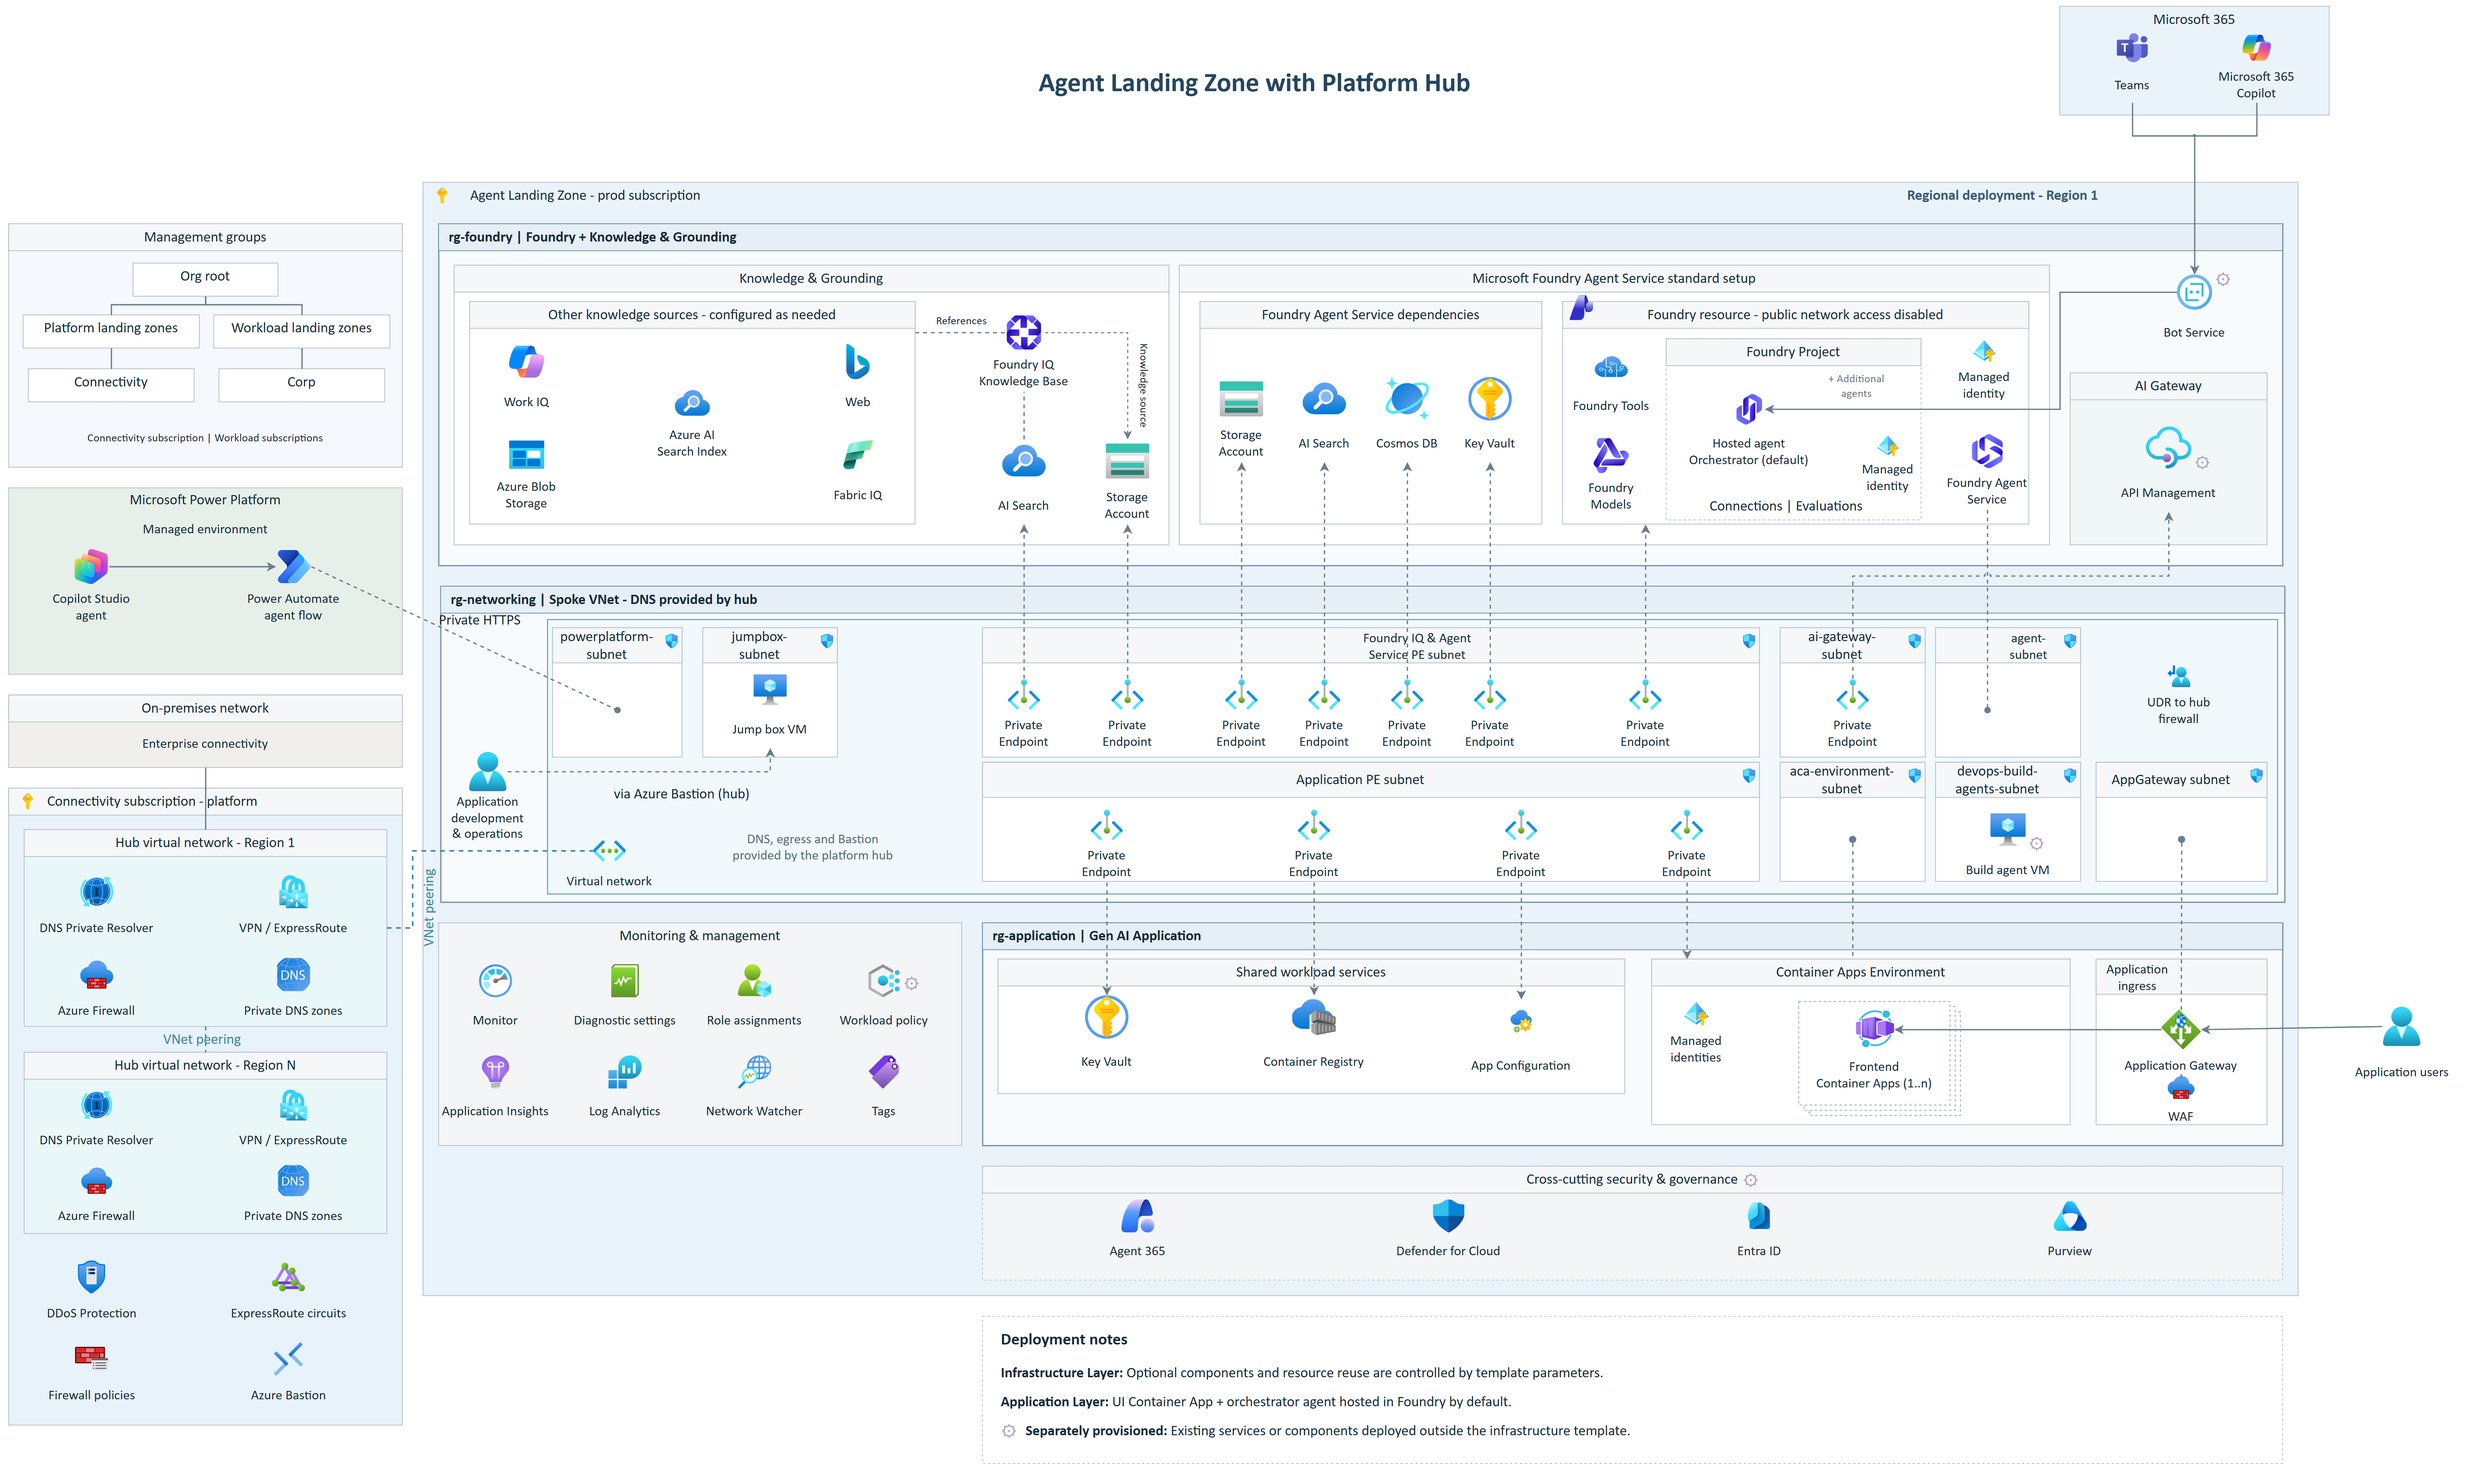
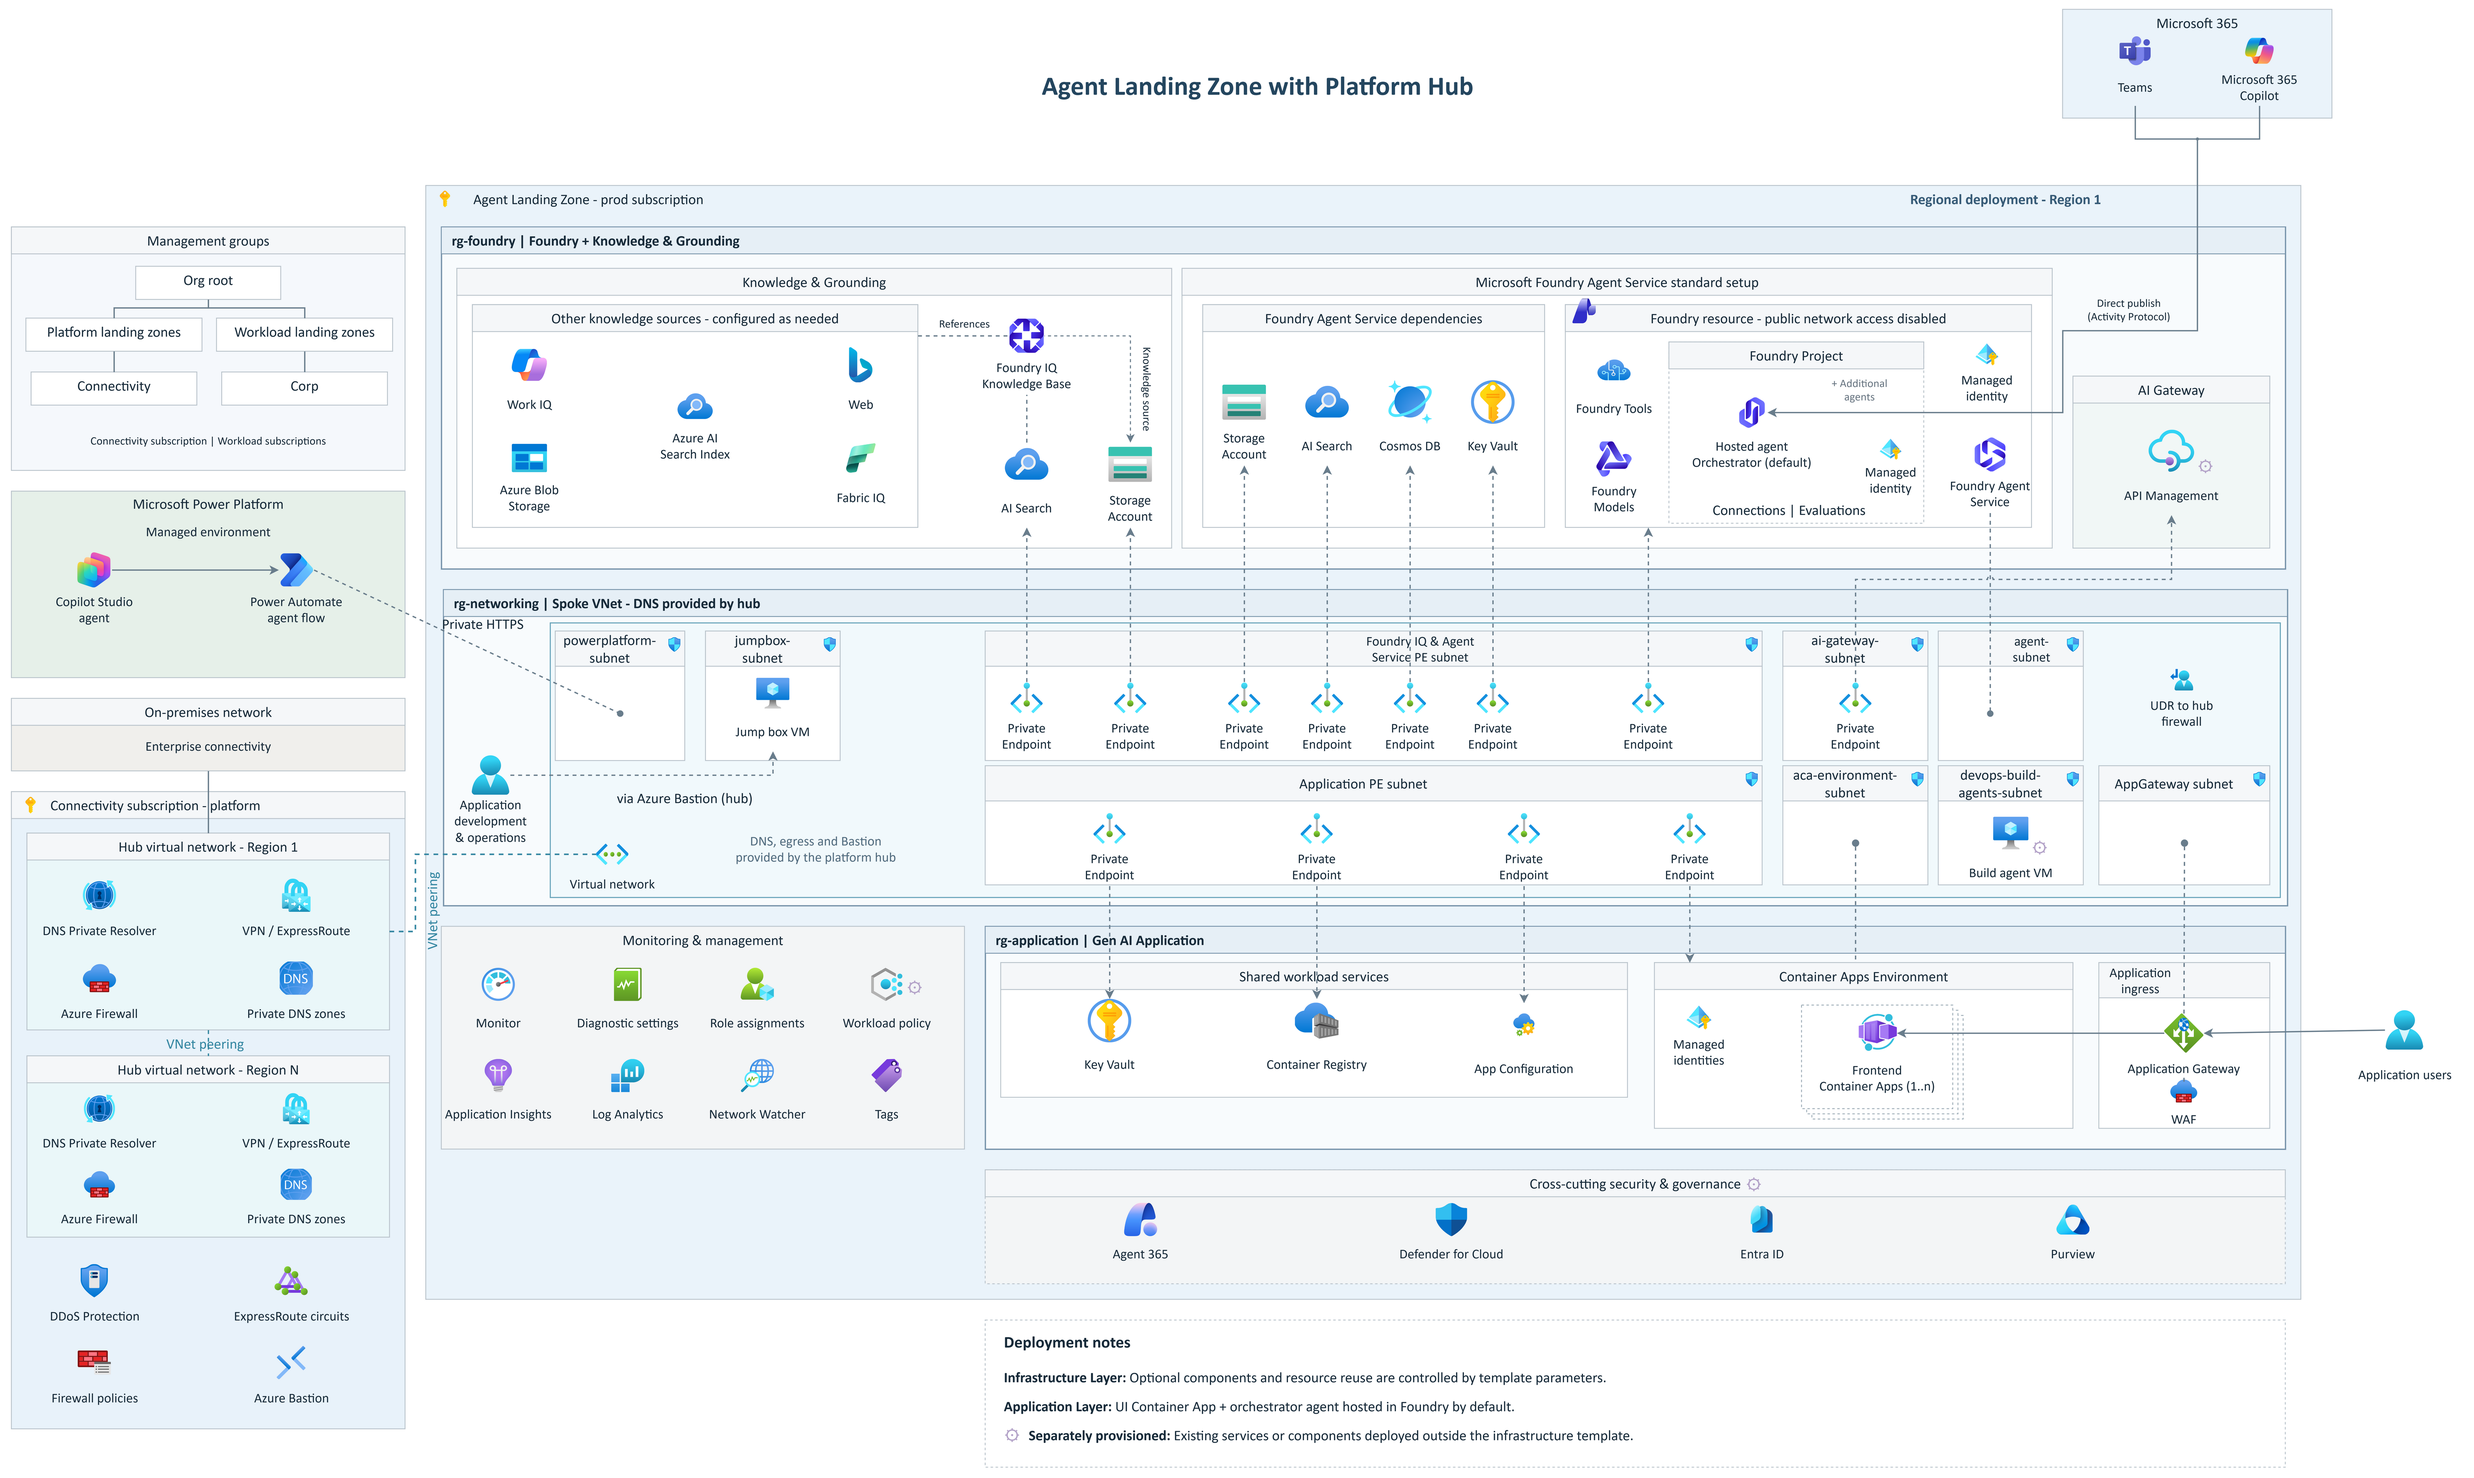
docs: remove Bot Service from reference diagrams and label Activity Protocol publish

diff --git a/docs/javascripts/planner/inventory.js b/docs/javascripts/planner/inventory.js
@@ -458,9 +458,9 @@ window.architecture = {
     add({
       id: "bot", group: "application", name: "Azure Bot Service",
       field: "botServices", sku: "Channel / message-dependent", unit: "Bot integrations",
-      description: "Optional custom Bot Framework channel integration shown in the reference diagram. Direct Foundry publishing to Teams and Microsoft 365 Copilot does not require an Azure Bot Service resource.",
+      description: "Optional custom Bot Framework channel integration outside the reference diagram. Direct Foundry publishing to Teams and Microsoft 365 Copilot does not require an Azure Bot Service resource.",
       sizing: "<strong>Size channel messages and authentication flows.</strong> Bot registration is not hosted-agent compute. Standard and premium channel billing differs.",
-      detail: "Shown as an optional subscription component in the reference diagram. Direct Foundry publication to Teams and Microsoft 365 Copilot uses built-in Foundry registration with zero Bot Service resources. Custom Bot Framework channels, licenses and model consumption must be budgeted independently.",
+      detail: "Not provisioned by Agent Landing Zone or shown in the reference diagram. Direct Foundry publication to Teams and Microsoft 365 Copilot uses built-in Foundry registration with zero Bot Service resources. Custom Bot Framework channels, licenses and model consumption must be budgeted independently.",
       parameter: "Architecture diagram: optional custom Bot Framework channel"
     }, s.botServices);
     add({

diff --git a/docs/index.md b/docs/index.md
@@ -78,9 +78,9 @@ Explore Agent Landing Zone, integrated with AI Gateway Landing Zone, or on its o
 Agent Landing Zone connects to a platform that provides shared connectivity, DNS and egress services.
 
 <figure class="architecture-figure" markdown="1">
-![Agent Landing Zone reference architecture](architecture/media/AI-Landing-Zone-with-platform.png?v=e868bb76bceb){ width=6400 height=3822 loading=lazy }
+![Agent Landing Zone reference architecture](architecture/media/AI-Landing-Zone-with-platform.png?v=32bc79bf776a){ width=6400 height=3823 loading=lazy }
 <figcaption markdown="block">
-[Enlarge the Agent Landing Zone diagram](architecture/media/AI-Landing-Zone-with-platform.png?v=e868bb76bceb)
+[Enlarge the Agent Landing Zone diagram](architecture/media/AI-Landing-Zone-with-platform.png?v=32bc79bf776a)
 
 Resource selection and reuse depend on your implementation and settings. This reference shows the default hosted application without application Cosmos DB or its private endpoint; Foundry Agent Service's separate backing resources are retained.
 </figcaption>
@@ -93,9 +93,9 @@ Resource selection and reuse depend on your implementation and settings. This re
 Combine many Agent Landing Zones as spokes for agents to an AI Gateway Landing Zone as hub for models. The gateway has its own deployment and connectivity requirements; Agent Landing Zone does not provision it automatically.
 
 <figure class="architecture-figure" markdown="1">
-![AI Gateway Landing Zone reference architecture](architecture/media/AI-Landing-Zones-APIM.png?v=27769aa5cbf0){ width=6400 height=5867 loading=lazy }
+![AI Gateway Landing Zone reference architecture](architecture/media/AI-Landing-Zones-APIM.png?v=431e467f6d75){ width=6400 height=5867 loading=lazy }
 <figcaption markdown="block">
-[Enlarge the integrated gateway diagram](architecture/media/AI-Landing-Zones-APIM.png?v=27769aa5cbf0)
+[Enlarge the integrated gateway diagram](architecture/media/AI-Landing-Zones-APIM.png?v=431e467f6d75)
 
 Resource selection and reuse depend on your implementation and settings. The Agent Landing Zone portion shows the default hosted application without application Cosmos DB or its private endpoint; Foundry Agent Service's separate backing resources are retained.
 </figcaption>
@@ -109,9 +109,9 @@ Resource selection and reuse depend on your implementation and settings. The Age
 Deploy an independent environment where your team manages the network, without a shared platform hub.
 
 <figure class="architecture-figure" markdown="1">
-![Standalone Agent Landing Zone reference architecture](architecture/media/AI-Landing-Zone-without-platform.png?v=aa651551c880){ width=6400 height=3946 loading=lazy }
+![Standalone Agent Landing Zone reference architecture](architecture/media/AI-Landing-Zone-without-platform.png?v=67f29bca8122){ width=6400 height=3946 loading=lazy }
 <figcaption markdown="block">
-[Enlarge the standalone diagram](architecture/media/AI-Landing-Zone-without-platform.png?v=aa651551c880)
+[Enlarge the standalone diagram](architecture/media/AI-Landing-Zone-without-platform.png?v=67f29bca8122)
 
 Resource selection and reuse depend on your implementation and settings. This reference shows the default hosted application without application Cosmos DB or its private endpoint; Foundry Agent Service's separate backing resources are retained.
 </figcaption>

diff --git a/README.md b/README.md
@@ -24,11 +24,11 @@ for deployment options and configuration.
 
 #### Standalone
 
-![Standalone Agent Landing Zone reference architecture](docs/architecture/media/AI-Landing-Zone-without-platform.png?v=aa651551c880)
+![Standalone Agent Landing Zone reference architecture](docs/architecture/media/AI-Landing-Zone-without-platform.png?v=67f29bca8122)
 
 #### With Platform Hub
 
-![Agent Landing Zone with Platform Hub reference architecture](docs/architecture/media/AI-Landing-Zone-with-platform.png?v=e868bb76bceb)
+![Agent Landing Zone with Platform Hub reference architecture](docs/architecture/media/AI-Landing-Zone-with-platform.png?v=32bc79bf776a)
 
 ### AI Gateway Landing Zone
 

diff --git a/docs/agent-landing-zone/index.md b/docs/agent-landing-zone/index.md
@@ -20,7 +20,7 @@ Azure Bastion and a jumpbox for initial access.
 
 ## Architecture overview
 
-[![Standalone Agent Landing Zone reference architecture](../architecture/media/AI-Landing-Zone-without-platform.png?v=aa651551c880)](../architecture/media/AI-Landing-Zone-without-platform.png?v=aa651551c880)
+[![Standalone Agent Landing Zone reference architecture](../architecture/media/AI-Landing-Zone-without-platform.png?v=67f29bca8122)](../architecture/media/AI-Landing-Zone-without-platform.png?v=67f29bca8122)
 
 <span id="foundation-and-application"></span>
 
